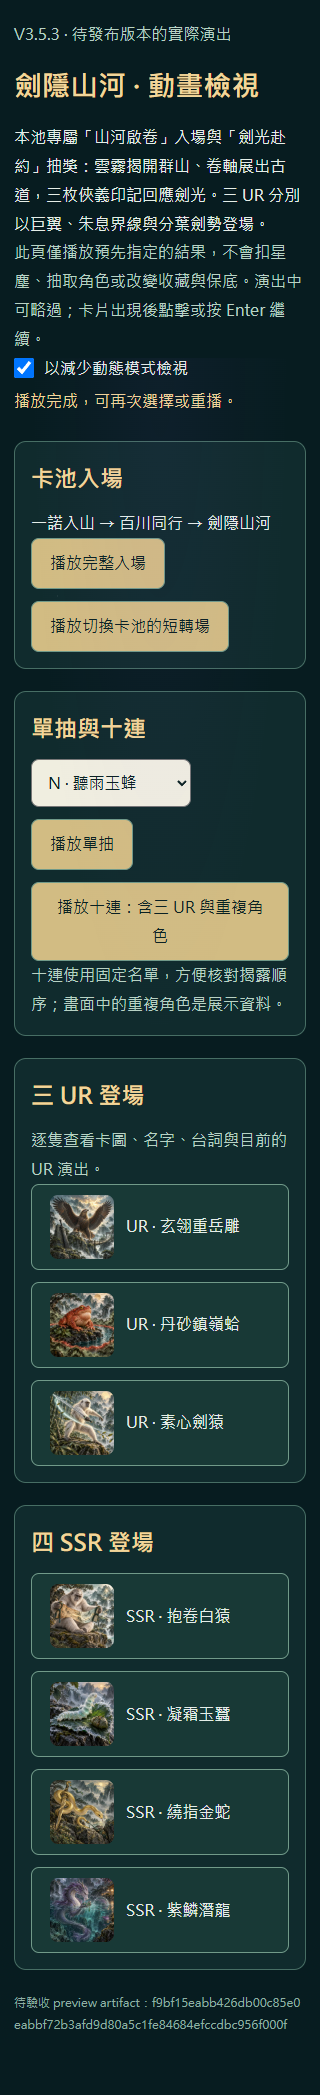
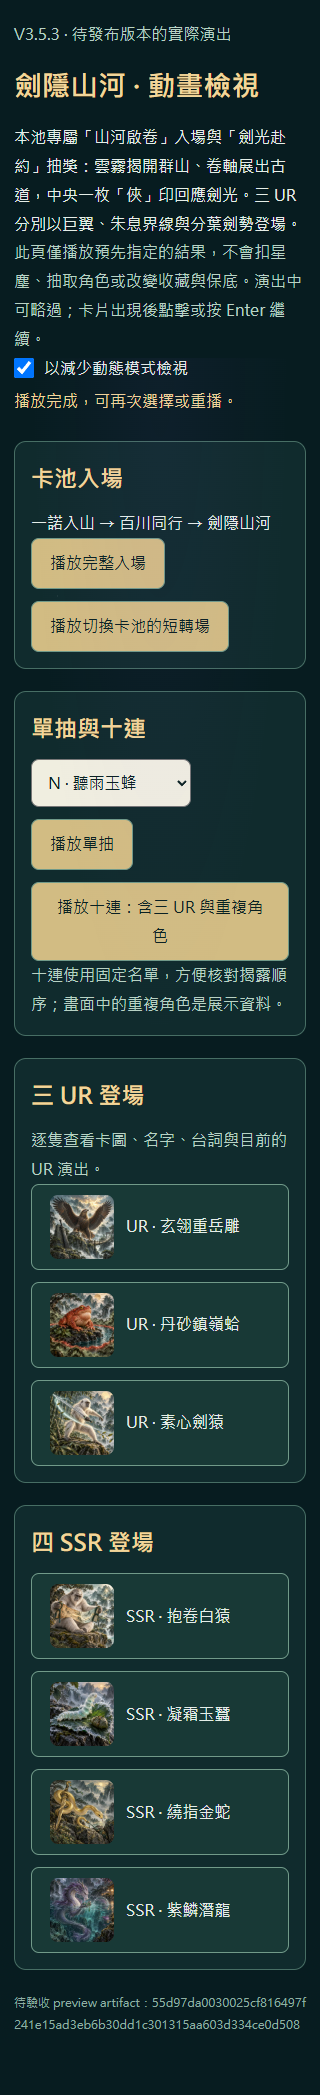
Record single xia seal review and refreshed preview artifacts

diff --git a/reports/swordwild-release/review.html b/reports/swordwild-release/review.html
@@ -1,6 +1,6 @@
 <!doctype html><html lang="zh-Hant"><meta charset="utf-8"><meta name="viewport" content="width=device-width,initial-scale=1"><title>劍隱山河 · V3.5.3 整包驗收</title><style>
 *{box-sizing:border-box}body{margin:0;background:#071c20;color:#e5eee8;font:16px/1.8 system-ui,sans-serif}main{max-width:1420px;margin:auto;padding:28px}header{padding:40px 0 28px;border-bottom:1px solid #51716c}h1{font-size:clamp(32px,5vw,60px);letter-spacing:.1em;margin:6px 0}h2{font-size:25px;line-height:1.35;color:#f2d69a;margin:4px 0 14px}h3{color:#dbd6a8}.eyebrow{font-size:13px;color:#8ebbad;letter-spacing:.06em}.lede{max-width:900px}.facts{display:grid;grid-template-columns:repeat(3,1fr);gap:18px;padding:28px 0}.facts article{border:1px solid #476e64;padding:22px;background:#0c282b}a{color:#b8e1cc}.controls{display:flex;gap:10px;flex-wrap:wrap;margin:26px 0}button{padding:9px 20px;border:1px solid #628b7d;background:transparent;color:#dfefdf;border-radius:30px;cursor:pointer}button[aria-pressed=true]{background:#d2bc83;color:#092021}.grid{display:grid;grid-template-columns:repeat(3,minmax(0,1fr));gap:22px}.card{background:#102b2d;border:1px solid #355b54;border-radius:12px;overflow:hidden}.card img{display:block;width:100%;aspect-ratio:1;object-fit:contain;background:#062023}.copy{padding:22px}.signature{color:#b7d3c4}details{border-top:1px solid #40625a;margin-top:18px;padding-top:12px;font-size:14px}summary{cursor:pointer;color:#e9d6a5}details section{border-bottom:1px solid #3d5b55;margin-bottom:24px}details p{white-space:pre-line}.muted{color:#a6bdb5}footer{padding:28px 0;color:#96b4a7}article[hidden]{display:none}@media(max-width:900px){.grid{grid-template-columns:repeat(2,minmax(0,1fr))}.facts{grid-template-columns:1fr}}@media(max-width:580px){main{padding:16px}.grid{grid-template-columns:1fr}.copy{padding:18px}}
-</style><main><header><p class="eyebrow">QUESTNOTE · 新卡池整包驗收 · V3.5.3</p><h1>劍隱山河</h1><p class="lede">雲棧古道上的二十位珍禽異獸。從故事中的辨識特徵，到角色正在做的事，再到畫面留下的結果，讓每一位夥伴都有自己的理由與位置。</p><p><a href="https://leotsouo.github.io/questnote-pwa-preview/">開啟隔離 App 預覽</a> · <a href="http://127.0.0.1:57996/animation-review/">開啟專屬動畫檢視</a> · <a href="pool-browser.json">实际卡池驗收紀錄</a> · <a href="artifact-browser.json">快取與離線驗收紀錄</a></p><p class="muted">目前為待最終驗收的發布包；正式站仍為 V3.5.2。二十張卡圖沿用已認可的第三版，舊版圖保留供日後討論覺醒使用。</p></header>
+</style><main><header><p class="eyebrow">QUESTNOTE · 新卡池整包驗收 · V3.5.3</p><h1>劍隱山河</h1><p class="lede">雲棧古道上的二十位珍禽異獸。從故事中的辨識特徵，到角色正在做的事，再到畫面留下的結果，讓每一位夥伴都有自己的理由與位置。</p><p><a href="https://leotsouo.github.io/questnote-pwa-preview/">開啟隔離 App 預覽</a> · <a href="http://127.0.0.1:64654/animation-review/">開啟專屬動畫檢視</a> · <a href="pool-browser.json">实际卡池驗收紀錄</a> · <a href="artifact-browser.json">快取與離線驗收紀錄</a></p><p class="muted">目前為待最終驗收的發布包；正式站仍為 V3.5.2。二十張卡圖沿用已認可的第三版，舊版圖保留供日後討論覺醒使用。</p></header>
 <div class="facts"><article><h2>二十位夥伴 · 三 UR</h2><p>N3／R5／SR5／SSR4／UR3。全員首抽開放。每抽 100 星塵，機率 55／30／10／3／2%。SSR 以上 30 抽保底，UR 100 抽保底。</p><p>一般抽取各 UR 約 0.667%；UR 保底從三位中抽取，不保證指定或未持有角色。</p></article><article><h2>松香行旅糰</h2><p>森林嫩葉 ×6＋豐穗護符 ×2。一般送禮 +75 親密度經驗，喜歡自然或田園禮物者總共 +150，不疊加。</p><p>所有新角色都有明確送禮偏好、實際派遣專長，以及既有 Lv.2～5 四章同行故事與專屬紀念物。</p></article><article><h2>雲棧古道</h2><p>預設開放，平常派遣 3 能量／30 分鐘；沿用既有首次行旅優惠。帶回星塵 25～45、嫩葉 1～2、基礎親密度 +8，隊伍專長可增加收益。</p><p>完整 10／25／50／75／100% 故事、獎勵、稱號與徽章。本池專屬山河啟卷入場與劍光赴約抽獎，三 UR 分別以巨翼、朱息界線與分葉劍勢登場。</p></article></div>
 <nav class="controls" aria-label="稀有度"><button aria-pressed="true" data-filter="all">全部 20</button><button aria-pressed="false" data-filter="UR">UR 3</button><button aria-pressed="false" data-filter="SSR">SSR 4</button><button aria-pressed="false" data-filter="SR">SR 5</button><button aria-pressed="false" data-filter="R">R 5</button><button aria-pressed="false" data-filter="N">N 3</button></nav><div class="grid"><article class="card" data-rarity="UR"><img src="../../assets/pets/variants/pet_ur16-stage-960-3a260a48730b.webp" alt="玄翎重岳雕"><div class="copy"><p class="eyebrow">UR · 探路 · 喜好 田園</p><h2>玄翎重岳雕</h2><p class="signature">巨翼＋無鋒重劍 · 展翼鎮風護橋，山口的風雲回應重量</p><p>玄翎重岳雕在斷橋旁等過許多個冬天。牠曾答應一位遠行的修橋者守住入口，後來再沒等到對方歸來。那人留下的無鋒黑鐵重劍仍靠在路碑旁，成為這段承諾的記號。山裡的夥伴以為牠只是在守著過去，直到洪水漲起，牠張開沉重的雙翼，替路上的小獸擋住被風吹落的橋板。牠沒有把那個承諾變成停在原地的理由，而是每天扶正一根護欄，讓新來的人也能走過。當最後一塊橋板鋪好，牠第一次離開路碑，陪大家走到另一岸。牠的力量不需要被看見，卻總能讓別人放心跨出腳步。</p><details><summary>取材與畫面設計</summary><p>《神鵰俠侶》神鵰與重劍意象；保留古老、粗獷、沉重巨翼與亦師亦友氣質，原創守橋巨雕，不美化成鳳凰。</p><p>古老粗獷巨雕，玄褐厚羽、局部暗紅裸露額頂、沉重鉤喙與壯碩雙足。低角度三分之四仰視，一足踏高岩一足穩踏橋頭，巨大雙翼完全張開形成寬廣拱形，完整翼尖距畫邊至少8%。頭高抬俯視山口，有亦師亦友的凌然威儀。旁邊一柄巨大無鋒黑鐵重劍斜靠無字石碑，雕不持劍。翼下厚雲和山風被壓成兩側流線，身後受護的竹橋安穩；層疊山嶺与金色破雲天光顯出一方霸主。全身清楚，不是鳳凰，不穿甲。</p><p>重岳雕確認古道橋面並保留可走路線，實際探路；守橋稱號不表示守護收益。已核對 getPetSpecialty 實際為探路；探索目標提供專長探索進展。</p></details><details><summary>四章同行故事與專屬紀念物</summary><section><h3>Lv.2 · 靠近一步</h3><p>玄翎重岳雕展開沉重雙翼，橋外的風停在羽緣，無鋒重劍仍靠著路碑。</p><p>玄翎重岳雕在斷橋旁等過許多個冬天。牠曾答應一位遠行的修橋者守住入口，後來再沒等到對方歸來。那人留下的無鋒黑鐵重劍仍靠在路碑旁，成為這段承諾的記號。山裡的夥伴以為牠只是在守著過去，直到洪水漲起，牠張開沉重的雙翼，替路上的小獸擋住被風吹落的橋板。牠沒有把那個承諾變成停在原地的理由，而是每天扶正一根護欄，讓新來的人也能走過。當最後一塊橋板鋪好，牠第一次離開路碑，陪大家走到另一岸。牠的力量不需要被看見，卻總能讓別人放心跨出腳步。
 此刻，牠願意把這段來歷親口說給你聽。「你注意到玄翎重岳雕出發前總會查看無字石碑前穩穩的一步；那是牠認真照顧這段旅途的方式。」</p><p>邀請：牠邀你完成一件能讓路繼續的小事，把承諾放進今天確實能做的行動。</p><p><strong>我在這裡，慢慢說。</strong><br>牠放鬆了一點，回應你：「你注意到玄翎重岳雕出發前總會查看無字石碑前穩穩的一步；那是牠認真照顧這段旅途的方式。」

diff --git a/reports/swordwild-release/README.md b/reports/swordwild-release/README.md
@@ -11,9 +11,9 @@
 
 ## 本池專屬動畫
 
-山河啟卷入場：雲霧退開、紙卷展出群山與古道，諾／俠／心三印回應。劍光赴約抽獎：稀有度光色、劍痕揭卷；三UR各以巨翼、朱息鎮岳界線與分葉劍勢登場。SSR金墨揭露，正常與減少動態均可重播、略過及逐張繼續。
+山河啟卷入場：雲霧退開、紙卷展出群山與古道，中央一枚「俠」印回應。劍光赴約抽獎：稀有度光色、劍痕揭卷；三UR各以巨翼、朱息鎮岳界線與分葉劍勢登場。SSR金墨揭露，正常與減少動態均可重播、略過及逐張繼續。
 
-[開啟互動動畫檢視](http://127.0.0.1:57996/animation-review/)（已在Codex實際開啟，與下列artifact相同）。本次12個播放情境、7張稀有卡圖與稀有度標示、320px版面與無IndexedDB寫入均通過。
+[開啟互動動畫檢視](http://127.0.0.1:64654/animation-review/)（已在Codex實際開啟，與下列artifact相同）。本次12個播放情境、7張稀有卡圖與稀有度標示、320px版面與無IndexedDB寫入均通過。
 
 ## 已驗證
 
@@ -24,12 +24,12 @@
 ## 審閱與發布綁定
 
 - [完整內容審閱](review.html)：二十張圖、取材、Lore、故事、偏好與專長。
-- [隔離 App 預覽](https://leotsouo.github.io/questnote-pwa-preview/?release-review=f9bf15eabb42)；preview部署提交 af3f76307f15d93c93a4db6fa6ab40a65d06e0e1。
+- [隔離 App 預覽](https://leotsouo.github.io/questnote-pwa-preview/?release-review=55d97da00300)；preview部署提交 86042128ae82e34d524430eb363584a0574b8f60。
 - [實際卡池驗收](pool-browser.json)、[SW驗收](artifact-browser.json)、[HTTPS讀回](preview-https.json)。
-- reviewed source commit：`d7f18e724b25c38fa2cad97fe6835a05435f2ee5`。
+- reviewed source commit：`87b72364f72f395a37469726e98cab0e0ab5b3a8`。
[7 lines of base64/hex data omitted]
 
 使用者對這一整包驗收及明確同意發布後，才把相同packageHash寫入humanAcceptance及publicationAuthorization，重跑poolReleaseReview，取得releaseReady:true後合併來源及推送正式產物。沒有冒用圖片認可作為整包或正式發布同意。

diff --git a/reports/swordwild-release/animation-design.md b/reports/swordwild-release/animation-design.md
@@ -32,6 +32,6 @@
 
 ## 人工檢視與驗收
 
-[互動動畫檢視](http://127.0.0.1:57996/animation-review/) 已在 Codex 實際開啟。可播放完整入場、短轉場、任一單抽、固定十連、三 UR 與四 SSR，並切換正常／減少動態。展示頁直接載入凍結 preview artifact 的模組、樣式與卡圖，標示 artifact ID；不呼叫抽卡交易，也不建立 IndexedDB。
+[互動動畫檢視](http://127.0.0.1:64654/animation-review/) 已在 Codex 實際開啟。可播放完整入場、短轉場、任一單抽、固定十連、三 UR 與四 SSR，並切換正常／減少動態。展示頁直接載入凍結 preview artifact 的模組、樣式與卡圖，標示 artifact ID；不呼叫抽卡交易，也不建立 IndexedDB。
 
 12 個播放情境、7 張稀有卡圖與稀有度標示、320px 版面均通過，詳見 [播放頁驗收](animation-review-browser.json)。真實卡池交易、保底、重複角色、揭露佇列與離線資料見 [本池驗收](pool-browser.json)。最終人工認可尚未取得；正式發布仍依 SOP 綁定整包 hash。
